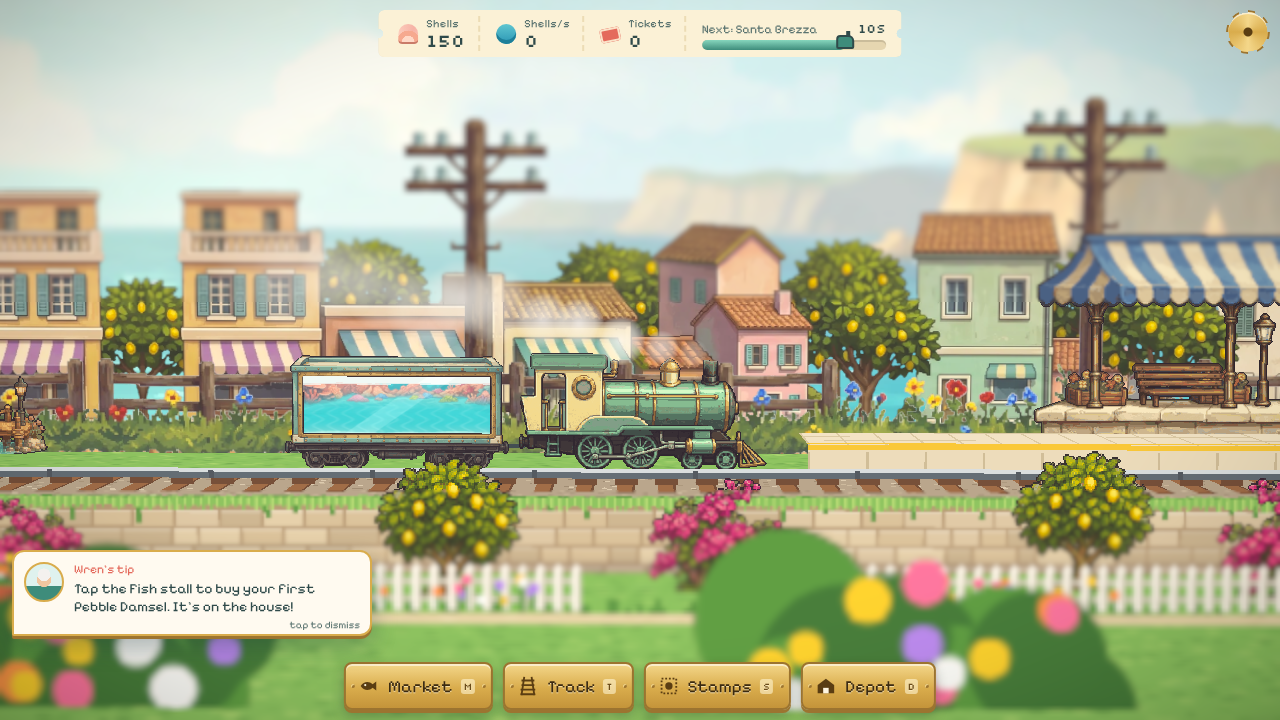
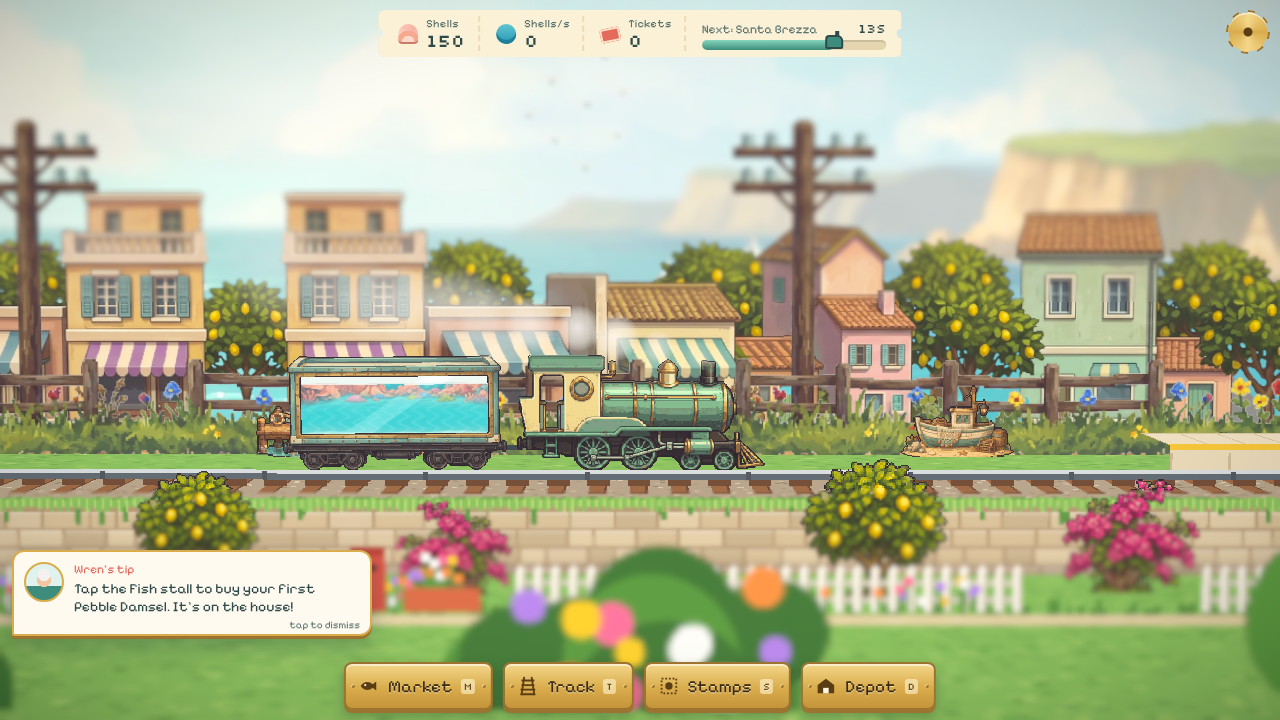
fix: smooth train motion — interpolate train pose between sim ticks, frame-rate-independent camera follow (T-25)

diff --git a/pm/handoffs/T-25.md b/pm/handoffs/T-25.md
@@ -1,0 +1,37 @@
+# T-25 handoff (DEV): smooth train motion
+
+## Status
+Done. `npm run build` passes. `npm run test` passes: 29 files, 179 tests (2 new files).
+
+## Diagnosis (measured with `scripts/motion-probe.ts`, virtual 60 fps rAF clock, mid-leg cruise)
+1. **Root cause: 4 Hz stepping.** `GameController.pose()` read `sim.state.train.t`, which only changes on each 0.25 s sim tick. At 60 fps, the train's world X stayed still for 280 of 300 frames, then jumped about 0.47 world units (about 38 px) every 4th frame. The camera eased every frame, so the train jumped forwards and backwards against the screen. That is the producer's strip.
+2. **Camera also stepped.** The look-ahead lead (`speed·0.45`) was built from the stepped velocity. The follow `x += (T−x)(1−e^{−k·dt})` also has a lag that depends on dt: with 16/33 ms frames it alternates by about 1.3 px.
+3. **Slosh / rail-joint rocking.** Slosh is driven by `Δvel/dt`, so it spiked on every tick. The joint bump phase used `time·speed`, which is not integrated, so it ran at very high frequency during speed ramps. Wheels turned by `speed·dt` on the clamped dt.
+4. **Not causes.** Parallax layers and stations are positioned from the camera X, so they were smooth once the camera was. There is no pixel snapping on the camera or sprites.
+
+## Fix
+- `src/game/pose.ts`: `trainPose(..., ahead)` adds the sim's unconsumed sub-tick time (`state.tickAcc`). The pose is then a continuous function of time that equals the sim exactly at every tick. A leg end or stop end that falls inside the sub-tick is resolved the way the next tick will resolve it, so there is no overshoot. `controller.pose()` passes `tickAcc`.
+- `src/render/diorama/cameraRig.ts`: new `followStep()`. It integrates the exponential follow exactly for a moving target, so the lag is independent of frame time.
+- `src/render/stage.ts`: the camera follow and the train accel use the real frame gap, capped at 0.25 s, because the train follows real sim time.
+- `src/render/train/train.ts`: wheels turn by the actual Δx. Rail-joint rocking is driven by distance rolled.
+
+## Probe results (before → after)
+| scenario | worldCV | camCV | loco screen jitter (stdev px/frame) | max jerk px |
+|---|---|---|---|---|
+| 60 fps | 384% → 0% | 17% → 0.9% | 9.16 → 0.02 | 38.1 → 0.0006 |
+| 30 fps | 262% → 0% | 16% → 0.6% | 12.27 → 0.03 | 37.8 → 0.002 |
+| 16/33 ms | 321% → 0% | 16% → 0.7% | 11.03 → 0.03 | 41.2 → 0.036 |
+| arrival→stop→departure 60 fps | — | — | 0.79 → 0.02 | 10.5 → 0.0006 |
+
+Run it with `npx tsx scripts/motion-probe.ts [--url http://localhost:5173/] [--strip NAME] [--json f] [--raw]`. Without `--url` it serves `dist/`. It exits 1 on failure.
+
+## Tests
+- `tests/unit/game/smoothPose.test.ts`: the sub-tick pose is smooth across arrivals and departures, exact at ticks, and continuous.
+- `tests/unit/game/followStep.test.ts`: the lag stays constant at 60, 30 and 16/33 ms frames.
+
+## Screens
+`docs/qa/screens/T-25_strip_before_01..12.png` and `T-25_strip_after_01..12.png` (30 fps steps). Before, the train jumps around on screen. After, it stays steady while the scenery scrolls evenly.
+
+## Notes
+- The camera still sways gently on purpose: about 0.02 u/s, which is the ~0.7% camCV.
+- `?warp=N` starts with the camera behind the train, and it catches up over about 2 s. Normal loads are unaffected.

diff --git a/pm/STATE.md b/pm/STATE.md
@@ -1,6 +1,6 @@
 # PM STATE — Coral Express
 
-**Phase:** 7 QA re-run → 8 Ship
+**Phase:** 8 Ship (final)
 **Live URL:** https://coral-express.vercel.app (auto-deploys from main; first green deploy = T-01 efa824a)
 **Repo:** https://github.com/Son-1202/coral-express (branch `main`)
 
@@ -34,7 +34,7 @@
 | T-22c Fix: UI typography, phone, depot guard | DEV | high | done |
 | T-24 Final polish (+ train-on-rails fix) | DEV | medium | done |
 | T-23 Final QA on live build | QA | medium | done (all checks pass; 11/14 old bugs fixed, rest low) |
-| T-25 Fix: smooth train motion (producer bug) | DEV | high | in progress |
+| T-25 Fix: smooth train motion (producer bug) | DEV | high | done |
 | T-16 Painterly set + shiny | ART | medium | done |
 | T-17 Cinematic video clips | ART | medium | done |
 | T-18 Audio + ending + video player | DEV | medium | done (wiring via T-19) |
@@ -46,7 +46,7 @@
 | T-22c Fix: UI typography, phone, depot guard | DEV | high | done |
 | T-24 Final polish (+ train-on-rails fix) | DEV | medium | done |
 | T-23 Final QA on live build | QA | medium | done (all checks pass; 11/14 old bugs fixed, rest low) |
-| T-25 Fix: smooth train motion (producer bug) | DEV | high | in progress |
+| T-25 Fix: smooth train motion (producer bug) | DEV | high | done |
 | T-12 Sprite sheets | ART | medium | done |
 | T-06 Sim meta (sights, depot, offline, save, markets, requests) | DEV | high | done |
 | T-07 Bots + balance.ts | DEV | high | done (1/14 green) |
@@ -70,4 +70,4 @@ See pm/CREDITS.md.
 - Polish backlog: foreground lens garden + white fence are Line-1 style on every Line (use per-Line near art/colors); L3 flamingo/manta hidden behind palms; endless-mode toast after ending not wired.
 - PRODUCER BUG (2026-11-25): train hovers above the rails (wheels on grass strip, rails drawn lower/in front) → FIXED in T-24 (wheel bottom 469.7 px vs rail top 470.4 px; PM verified at 2×).
 - 2026-11-25 ~03:30 UTC: fourth usage-limit stop (T-20, T-22a/b/c). Resumed T-20 + T-22c at 03:40; T-22a/T-22b queued to resume when a slot frees (keep ≤ 2–3 concurrent to stretch the 5-h window).
-- PRODUCER BUG (2026-11-25): train motion not smooth (judder in screen recording) → T-25.
+- PRODUCER BUG (2026-11-25): train motion not smooth (judder in screen recording) → FIXED in T-25 (D-030).

diff --git a/pm/DECISIONS.md b/pm/DECISIONS.md
@@ -29,3 +29,4 @@
 - **D-027** T-07 accepted (harness works; 1/14 E1 targets pass on 200-game quick mode). Tuning goes to T-20 (CONTENT, high effort) with DEV support for sim-side rule fixes if data alone can't reach targets (e.g. fares scaling).
 - **D-028** T-20 accepted at 12/14 E1 targets (1000 games/bot; 5000 exceeds the 25-min budget on this machine). Accepted deviations (A1: two tuning rounds failed): (a) offline 8 h break → Terminus only 5.9% sooner (target 15–35%): the payout speeds the current run but resets erase it; a rule change would be needed; (b) single-species dominance p90 81% (≤35%): inherent to the ×5-per-station output ladder. Rule changes made by T-20 (all tested, documented in docs/content/TUNING.md): fares scale with each carriage's fish output; **Lines 2 and 3 open after two terminal runs** of the previous Line (spec said one); Tickets use a per-Line divisor. Follow-up: track map locked-Line text must reflect the two-run rule (→ polish ticket).
 - **D-029** PM integration fix: `src/ui/index.ts` imports `showOffline` from T-22b's new `./offline` module (one-line import switch; T-22c's ticket was closed). T-22a/b/c accepted. Left for polish: thief toast during another sight is the real miss penalty (by design, keep), manta softened by tilt-shift, offline "Collect" button uses default font.
+- **D-030** Producer bug "train not moving smoothly" fixed in T-25. Root cause: train pose read from the 4 Hz sim tick (static 280/300 frames at 60 fps, then ~38 px jump) while the camera eased every frame. Fix: render-side pose interpolation from elapsed time since last tick (exact at tick boundaries), frame-rate-independent camera follow, wheels/rocking from rolled distance. Jitter 9.16 → 0.02 px (60 fps), 12.27 → 0.03 (30 fps), 11.03 → 0.03 (16/33 ms). PM verified with before/after frame strips.
